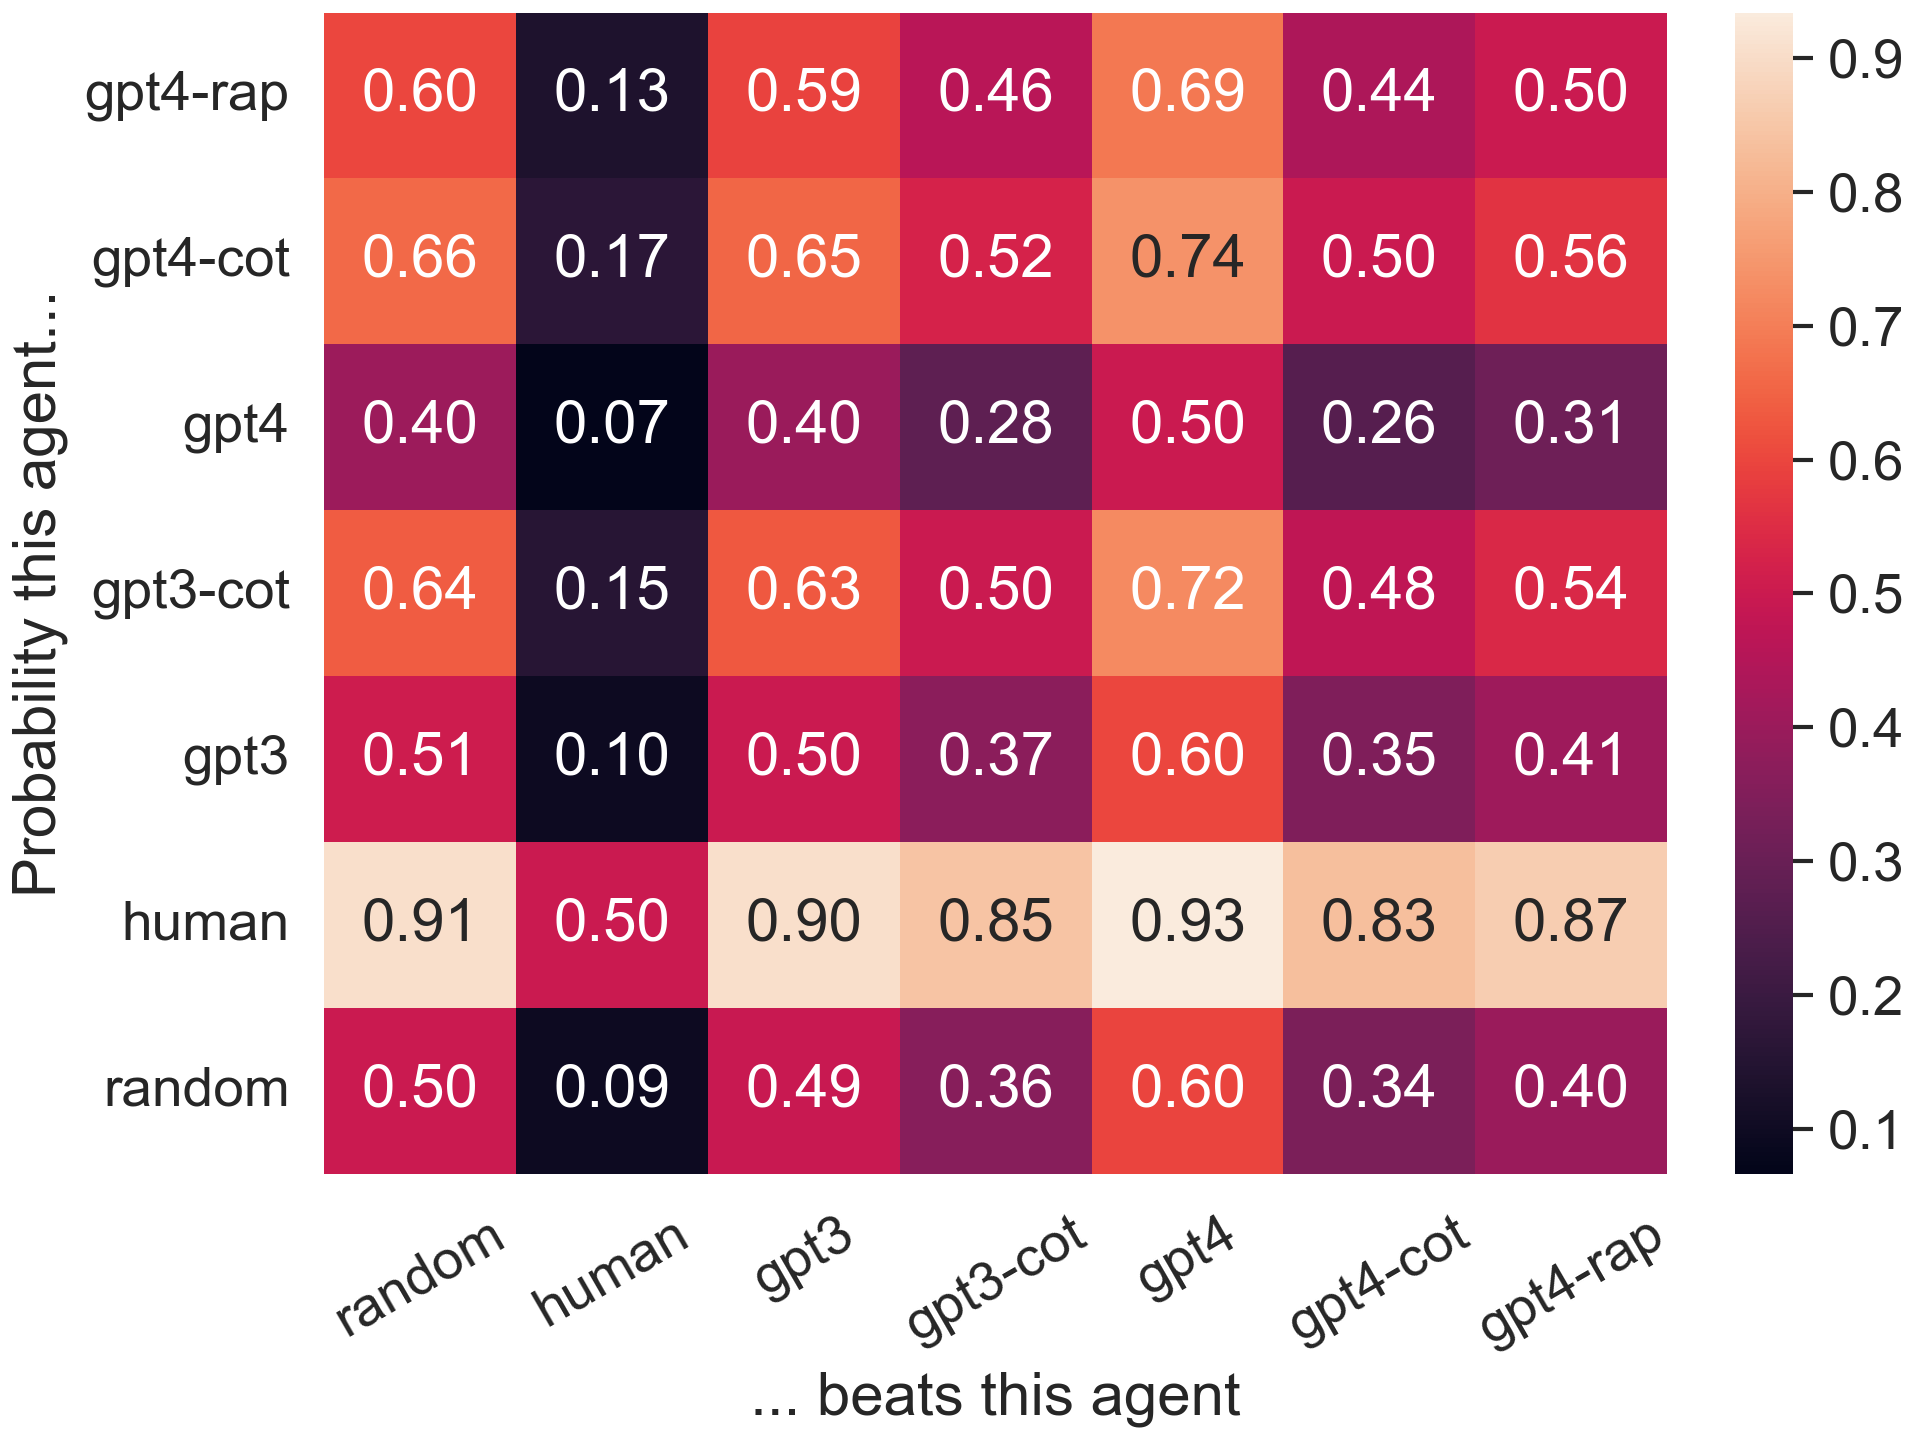
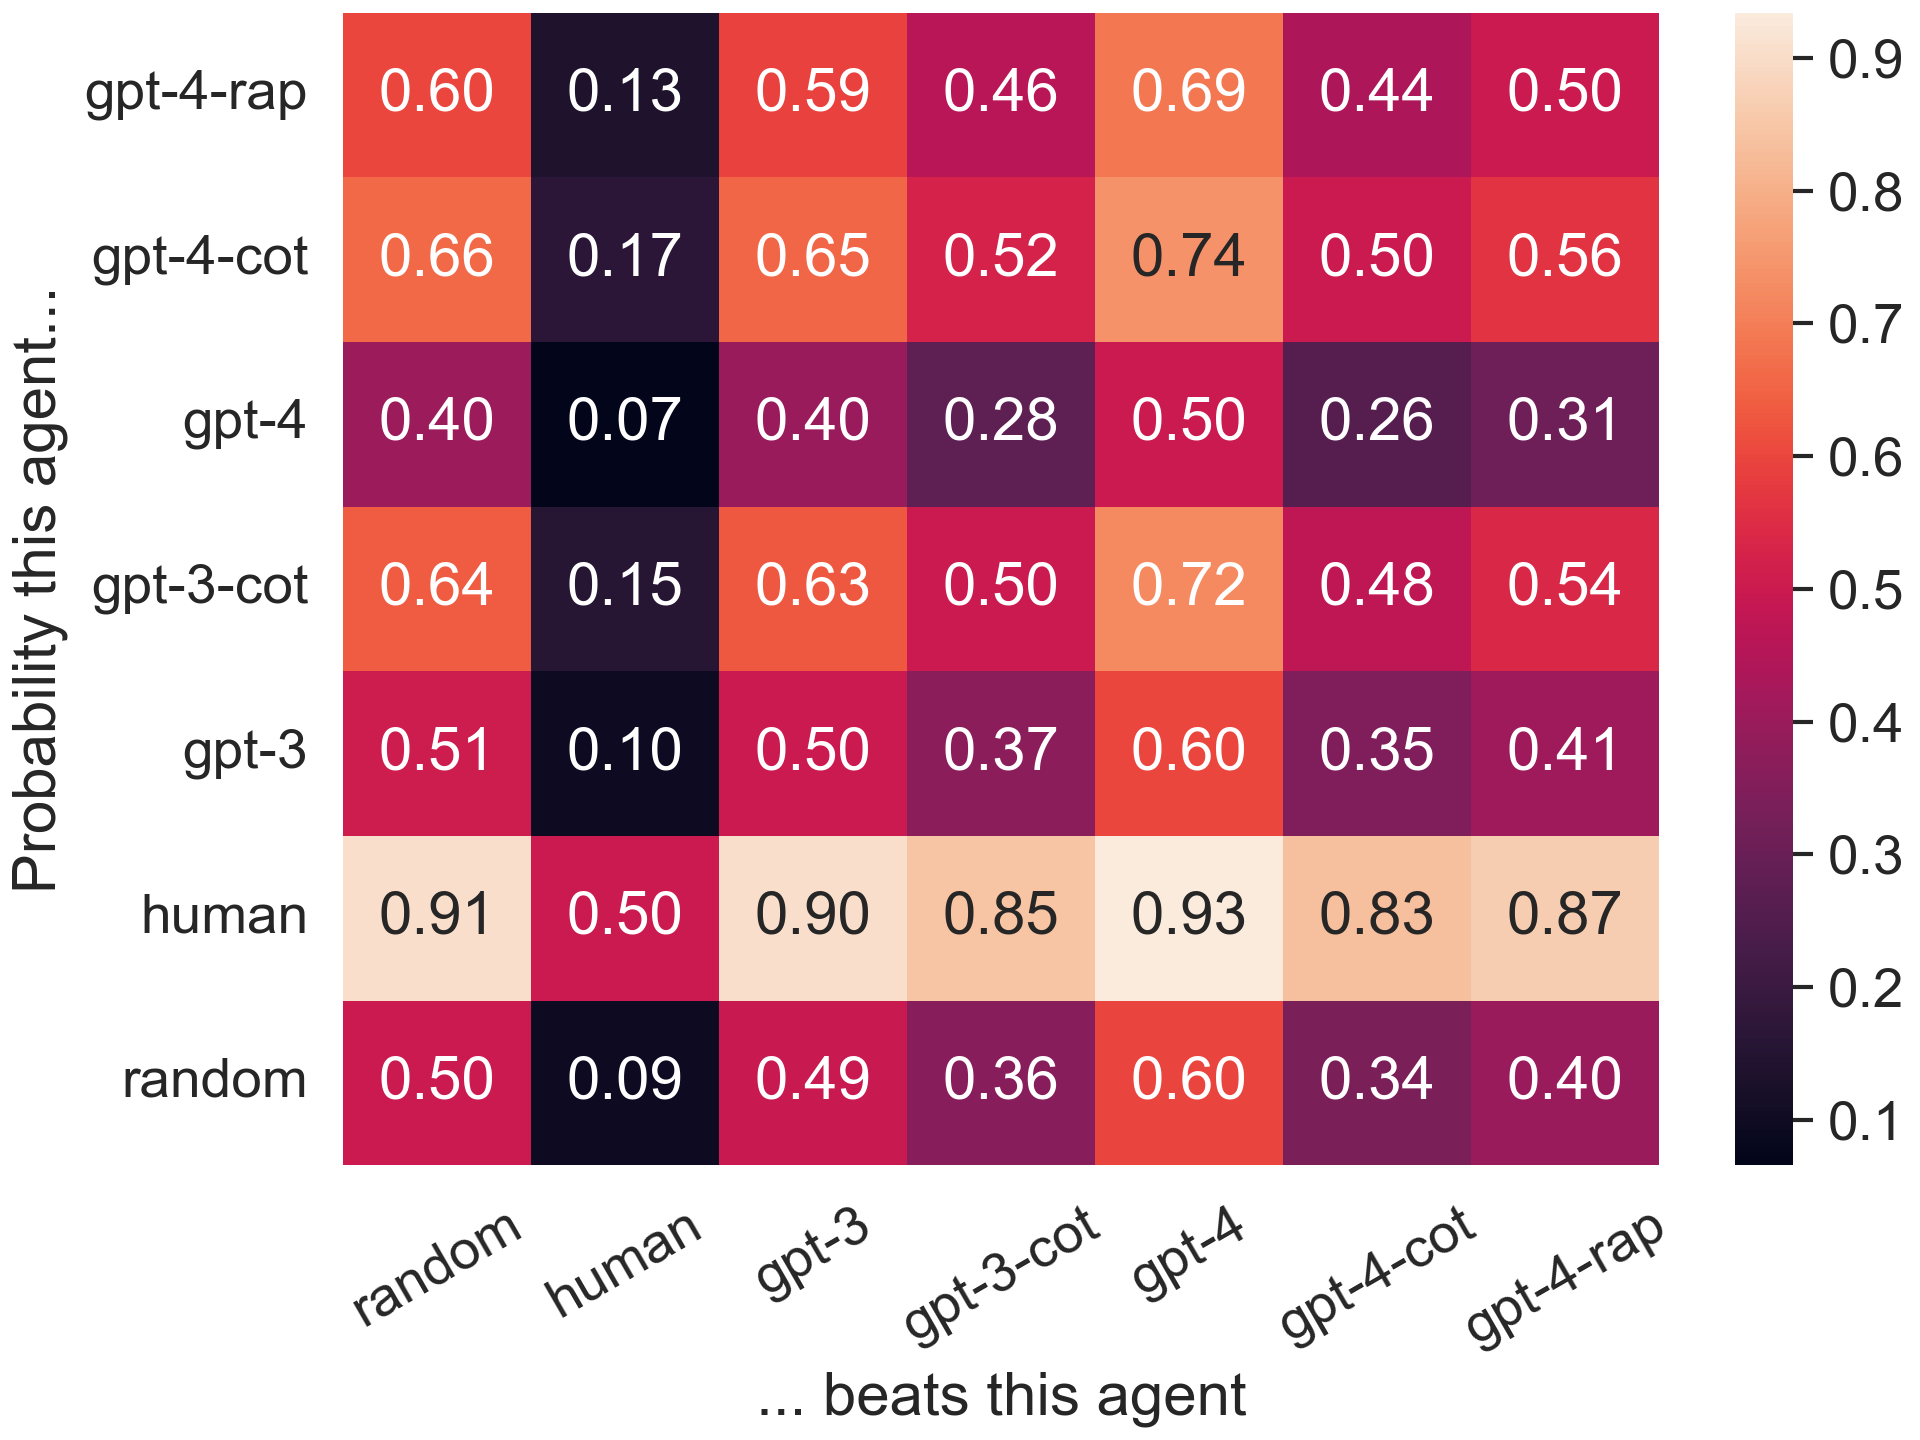
final figures

diff --git a/generate_all_results.py b/generate_all_results.py
@@ -210,3 +210,121 @@ for agent in players:
 
 latex("ratings_table", ratings_df)
 latex("scores_table", scores_df)
+
+################################################################################
+
+from api.util import load_json
+from collections import defaultdict
+import random
+
+import choix
+import matplotlib.pyplot as plt
+import numpy as np
+import functools
+import seaborn as sns
+from rating import *
+
+sns.set(style='whitegrid')
+sns.set_context("paper", font_scale=1.5)
+
+def make_figures(game, matches):
+
+    fig, axs = plt.subplots(2, 2, figsize=(9.5, 7.8), constrained_layout=True, dpi=300)
+    ax_nmatches = axs[0, 0]
+    ax_score = axs[0, 1]
+    ax_prob = axs[1, 0]
+    ax_rating = axs[1, 1]
+    fig.suptitle(better_names[game])
+
+    ################################################################################
+
+    n_matches = defaultdict(int)
+
+    for match in matches:
+        agents = list(match.keys())[1:]
+        n_matches[agents[0], agents[1]] += 1
+        n_matches[agents[1], agents[0]] += 1
+
+    matrix = np.zeros((n_players, n_players), dtype="int")
+    for i, player1 in enumerate(players):
+        for j, player2 in enumerate(players):
+            if player1 == player2:
+                continue
+
+            matrix[i][j] = n_matches[player1, player2]
+
+    sns.heatmap(matrix, ax=ax_nmatches, annot=True, xticklabels=players, yticklabels=players)
+    ax_nmatches.tick_params(axis='x', rotation=30)
+    ax_nmatches.tick_params(axis='y', rotation=0)
+    ax_nmatches.invert_yaxis()
+    #plt.xticks(rotation=30)
+
+    ax_nmatches.set_title("Number of matches")
+
+    ################################################################################
+
+
+    wins = defaultdict(int)
+    for match in matches:
+        agents = list(match.keys())[1:]
+        wins[agents[0], agents[1]] += match[agents[0]]
+        wins[agents[1], agents[0]] += match[agents[1]]
+
+    for (agent1, agent2), score in wins.items():
+        wins[agent1, agent2] = score
+
+    matrix = np.empty((len(players), len(players)))
+    matrix.fill(np.nan)
+    for i, player1 in enumerate(players):
+        for j, player2 in enumerate(players):
+            if player1 == player2:
+                continue
+
+            matrix[i, j] = wins[player1, player2]
+
+    sns.heatmap(matrix, ax=ax_score, annot=True, xticklabels=players, yticklabels=players)
+
+    ax_score.set_title("Total score")
+    ax_score.set_ylabel("Total points this agent scored...")
+    ax_score.set_xlabel("... against this agent")
+    ax_score.tick_params(axis='x', rotation=30)
+    ax_score.tick_params(axis='y', rotation=0)
+    ax_score.invert_yaxis()
+
+    ################################################################################
+
+    bootstrapped_params = complete_bootstrapped_params[game]
+    ratings = bootstrapped_params.mean(0)
+
+    sorted_indices = np.argsort(ratings)
+    sorted_data = bootstrapped_params[:, sorted_indices]
+    sorted_labels = [players[i] for i in sorted_indices]
+
+    sns.boxplot(data=sorted_data, whis=(5, 95), fliersize=0, ax=ax_rating)
+    ax_rating.set_ylabel("Rating")
+    ax_rating.set_xticks(ticks=range(len(players)), labels=sorted_labels)
+    ax_rating.tick_params(axis='x', rotation=30)
+
+    ################################################################################
+
+    matrix = np.zeros((n_players, n_players))
+    for i in range(n_players):
+        for j in range(n_players):
+            matrix[i, j] = choix.probabilities([i, j], ratings)[0]
+
+    sns.heatmap(matrix, ax=ax_prob, annot=True, xticklabels=players, yticklabels=players, fmt=".2f")
+    ax_prob.set_title("Win probabilities")
+    ax_prob.set_ylabel("Probability this agent...")
+    ax_prob.set_xlabel("... beats this agent")
+    ax_prob.tick_params(axis='x', rotation=30)
+    ax_prob.tick_params(axis='y', rotation=0)
+    ax_prob.invert_yaxis()
+
+
+    ################################################################################
+
+    plt.savefig(f"figures/{game}.png")
+    plt.close()
+
+for game in games:
+    make_figures(game, complete_matches[game])

diff --git a/rating.py b/rating.py
@@ -50,10 +50,10 @@ def ilsr_pairwise(
 ################################################################################
 ################################################################################
 
-players = ["random", "gpt3", "gpt3-cot", "gpt4", "gpt4-cot", "rap"]
+players = ["random", "human", "gpt-3", "gpt-3-cot", "gpt-4", "gpt-4-cot", "gpt-4-rap"]
 n_players = len(players)
 
-def get_matches(game):
+def get_matches(game=None):
     if game:
         return [m for m in load_json("matches.json") if m["game"] == game]
     return load_json("matches.json")
@@ -74,7 +74,7 @@ def get_params(matches):
     return params
 
 
-def boostrap_params(matches):
+def bootstrap_params(matches):
     weights = defaultdict(int)
     for match in matches:
         weights[match["game"]] += 1
@@ -83,18 +83,27 @@ def boostrap_params(matches):
         [
             get_params(
                 random.choices(
-                    matches, k=len(all_matches), weights=[1 / weights[m["game"]] for m in matches]
+                    matches, k=len(matches), weights=[1 / weights[m["game"]] for m in matches]
                 )
             )
-            for _ in range(100)
+            for _ in range(1000)
         ]
     )
 
     return bootstrapped_params
+
+games = ["sea_battle", "two_rooms_and_a_boom", "are_you_the_traitor", "air_land_sea", "santorini", "hive", "pit", "arctic_scavengers", "codenames"]
+games.sort()
 
 better_names = {
     "sea_battle": "Sea Battle", "two_rooms_and_a_boom": "Two Rooms and a Boom",
     "are_you_the_traitor": "Are You the Traitor?", "air_land_sea": "Air, Land, and Sea",
     "santorini": "Santorini", "hive": "Hive", "pit": "Pit", "arctic_scavengers": "Arctic Scavengers",
     "codenames": "Codenames"
+}
+
+shorter_names = {
+    "sea_battle": "SB", "two_rooms_and_a_boom": "TRB", "are_you_the_traitor": "AYT",
+    "air_land_sea": "ALS", "santorini": "SN", "hive": "HV", "pit": "PT",
+    "arctic_scavengers": "AS", "codenames": "CN"
 }

diff --git a/figures/ratings_table.tex b/figures/ratings_table.tex
@@ -6,10 +6,10 @@ Agent &  & \multicolumn{9}{c}{Score} \\
 \midrule
 random & -0.50 & 1.07 & \textbf{0.48} & -2.52 & -2.67 & -1.15 & \underline{0.63} & 0.37 & -0.79 & 0.05 \\
 human & \textbf{1.76} & \underline{1.49} & \underline{0.45} & 1.92 & 1.26 & \textbf{3.63} & \textbf{1.29} & -0.89 & \underline{1.70} & \textbf{1.25} \\
-gpt3 & -0.48 & 1.26 & -0.05 & -1.84 & -2.06 & \underline{1.27} & \underline{0.63} & -0.01 & -2.51 & -0.41 \\
-gpt3-cot & 0.06 & 0.03 & 0.22 & \underline{2.42} & 0.45 & -0.44 & \underline{0.63} & \underline{0.53} & -2.76 & 0.26 \\
-gpt4 & -0.89 & -7.38 & -0.12 & -2.73 & -0.65 & -1.31 & -4.42 & -0.08 & 0.62 & -1.40 \\
-gpt4-cot & \underline{0.16} & \textbf{2.13} & 0.27 & -0.19 & \textbf{2.41} & -1.13 & 0.63 & -0.53 & 1.22 & \underline{0.62} \\
-gpt4-rap & -0.10 & 1.41 & -1.25 & \textbf{2.94} & \underline{1.26} & -0.86 & \underline{0.63} & \textbf{0.62} & \textbf{2.51} & -0.37 \\
+gpt-3 & -0.48 & 1.26 & -0.05 & -1.84 & -2.06 & \underline{1.27} & \underline{0.63} & -0.01 & -2.51 & -0.41 \\
+gpt-3-cot & 0.06 & 0.03 & 0.22 & \underline{2.42} & 0.45 & -0.44 & \underline{0.63} & \underline{0.53} & -2.76 & 0.26 \\
+gpt-4 & -0.89 & -7.38 & -0.12 & -2.73 & -0.65 & -1.31 & -4.42 & -0.08 & 0.62 & -1.40 \\
+gpt-4-cot & \underline{0.16} & \textbf{2.13} & 0.27 & -0.19 & \textbf{2.41} & -1.13 & 0.63 & -0.53 & 1.22 & \underline{0.62} \\
+gpt-4-rap & -0.10 & 1.41 & -1.25 & \textbf{2.94} & \underline{1.26} & -0.86 & \underline{0.63} & \textbf{0.62} & \textbf{2.51} & -0.37 \\
 \bottomrule
 \end{tabular}

diff --git a/figures/scores_table.tex b/figures/scores_table.tex
@@ -6,10 +6,10 @@ Agent &  & \multicolumn{9}{c}{Score} \\
 \midrule
 random & 0.49 & 0.72 & \textbf{0.60} & 0.25 & 0.18 & 0.41 & \underline{0.50} & 0.56 & 0.52 & \underline{0.58} \\
 human & \textbf{0.85} & \textbf{1.00} & NaN & NaN & NaN & \textbf{1.00} & \textbf{1.00} & 0.43 & NaN & \textbf{0.78} \\
-gpt3 & 0.48 & 0.64 & 0.43 & 0.43 & 0.63 & \underline{0.80} & \underline{0.50} & 0.47 & 0.27 & 0.40 \\
-gpt3-cot & 0.60 & 0.43 & \underline{0.50} & \underline{0.93} & \underline{0.89} & 0.60 & \underline{0.50} & \textbf{0.61} & 0.33 & 0.55 \\
-gpt4 & 0.31 & 0.00 & 0.42 & 0.33 & 0.83 & 0.33 & 0.31 & 0.42 & 0.71 & 0.20 \\
-gpt4-cot & 0.60 & \underline{0.81} & \underline{0.50} & 0.64 & \textbf{1.00} & 0.50 & \underline{0.50} & 0.37 & \underline{0.75} & 0.51 \\
-gpt4-rap & \underline{0.62} & NaN & 0.33 & \textbf{1.00} & NaN & 0.50 & NaN & \underline{0.58} & \textbf{1.00} & 0.26 \\
+gpt-3 & 0.48 & 0.64 & 0.43 & 0.43 & 0.63 & \underline{0.80} & \underline{0.50} & 0.47 & 0.27 & 0.40 \\
+gpt-3-cot & 0.60 & 0.43 & \underline{0.50} & \underline{0.93} & \underline{0.89} & 0.60 & \underline{0.50} & \textbf{0.61} & 0.33 & 0.55 \\
+gpt-4 & 0.31 & 0.00 & 0.42 & 0.33 & 0.83 & 0.33 & 0.31 & 0.42 & 0.71 & 0.20 \\
+gpt-4-cot & 0.60 & \underline{0.81} & \underline{0.50} & 0.64 & \textbf{1.00} & 0.50 & \underline{0.50} & 0.37 & \underline{0.75} & 0.51 \\
+gpt-4-rap & \underline{0.62} & NaN & 0.33 & \textbf{1.00} & NaN & 0.50 & NaN & \underline{0.58} & \textbf{1.00} & 0.26 \\
 \bottomrule
 \end{tabular}
